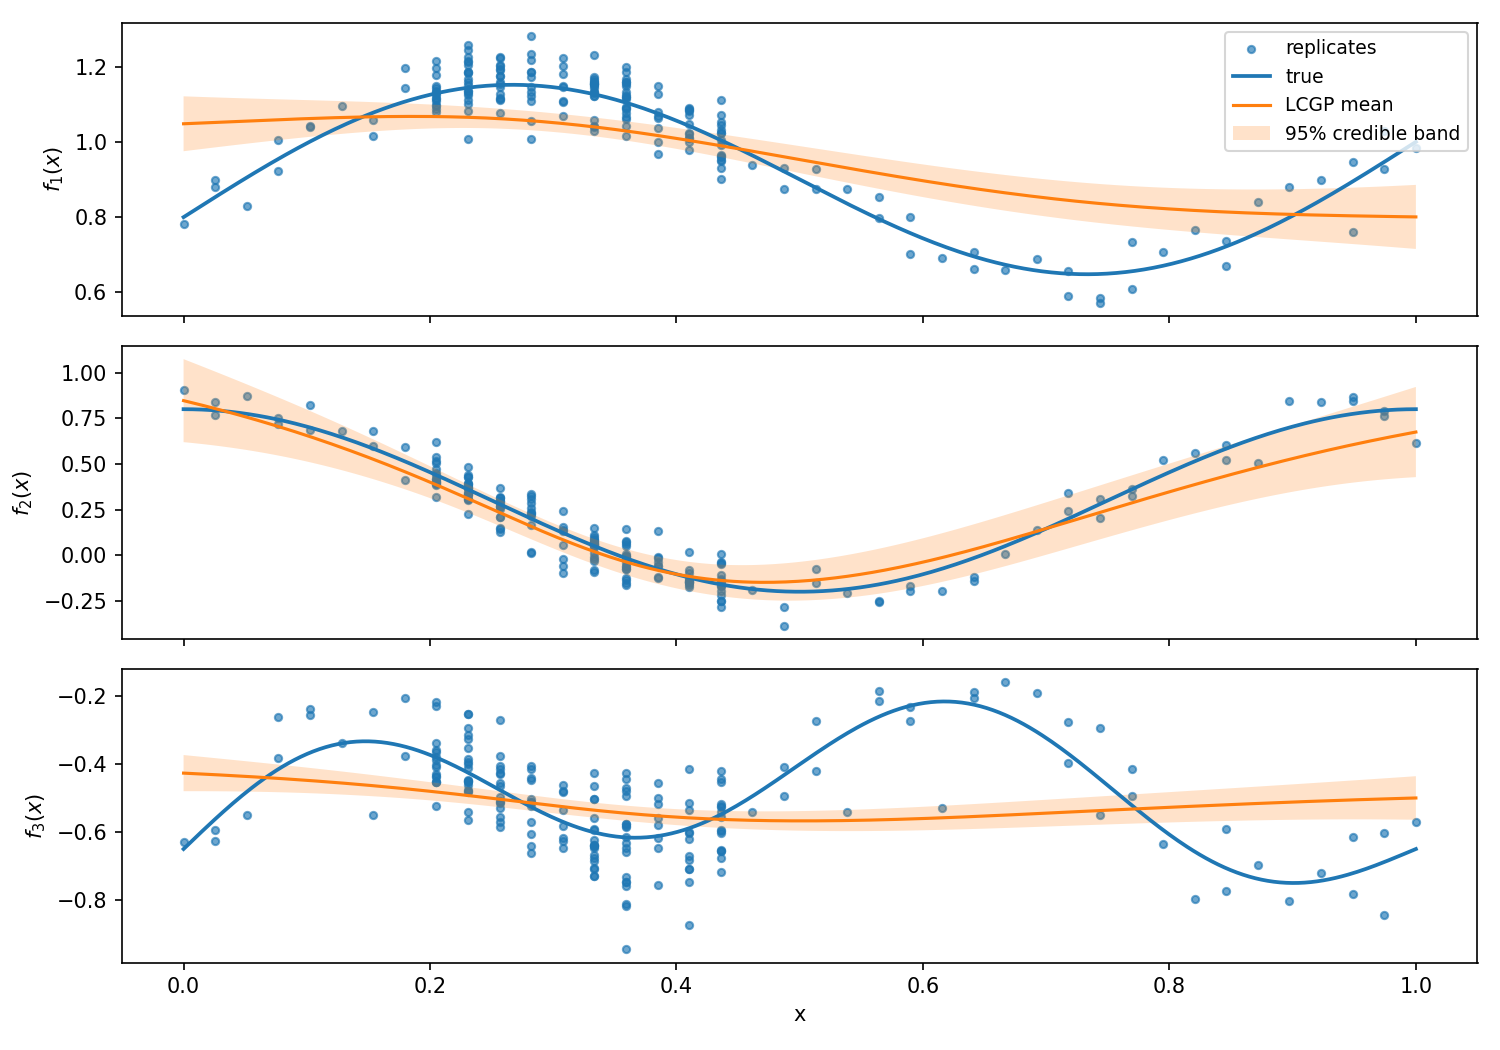
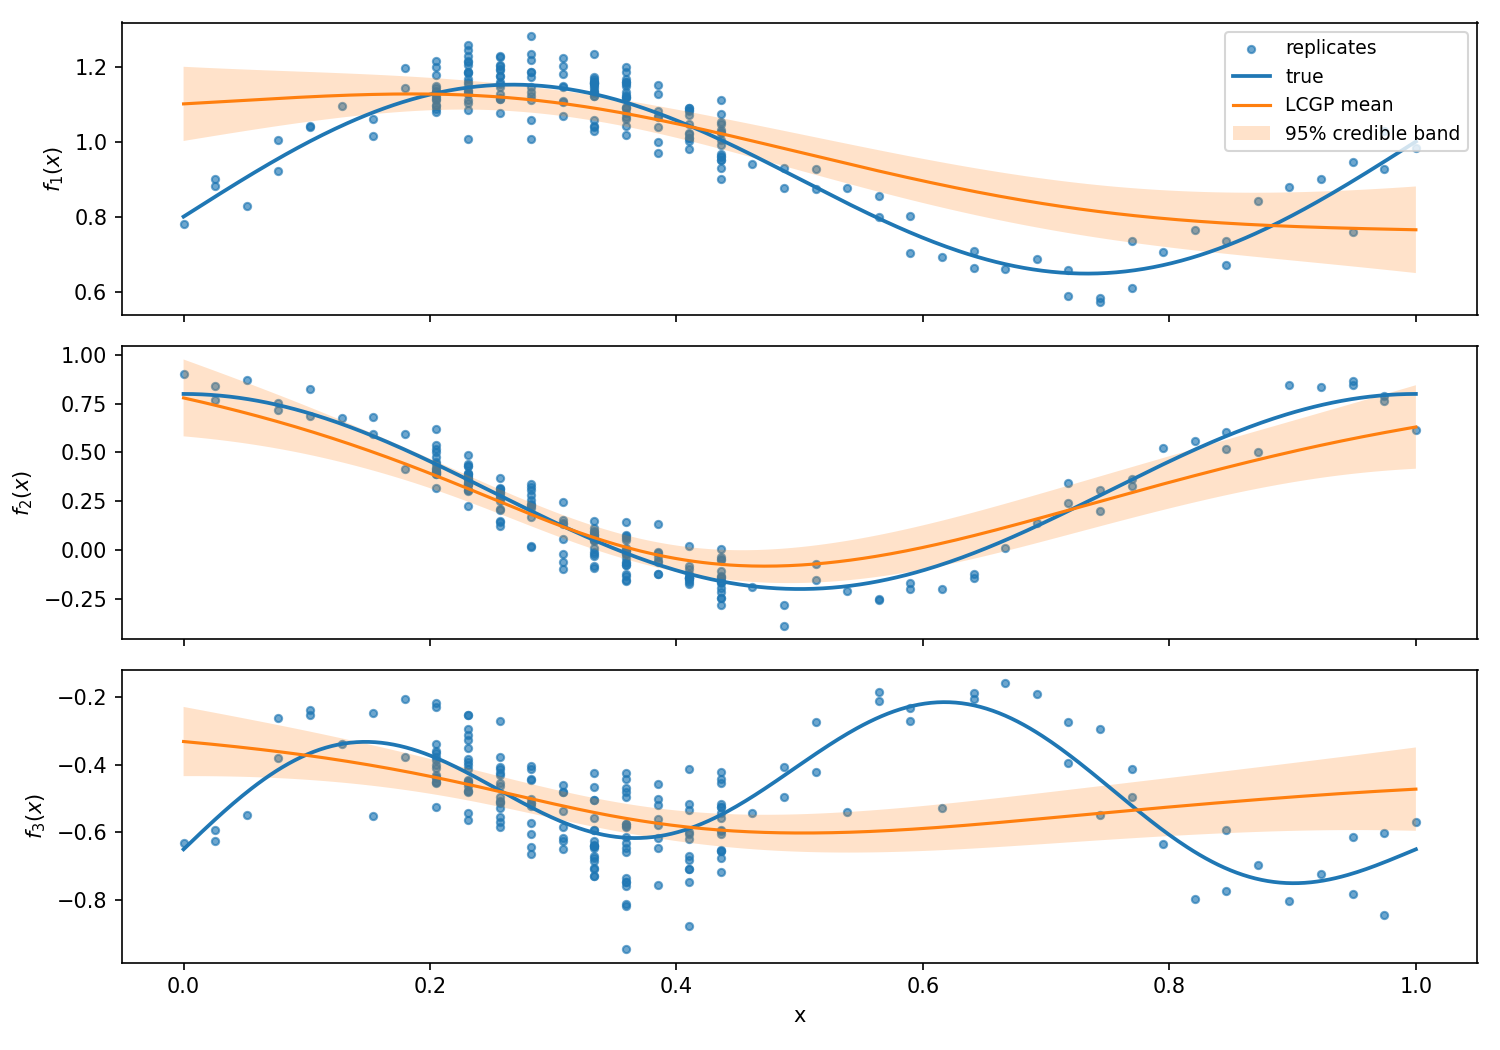
add markdown

diff --git a/lcgp/lcgp.py b/lcgp/lcgp.py
@@ -92,10 +92,16 @@ class LCGP(gpflow.Module):
             self.n = n_unique
             self.d = d
         '''
+        self._rep_initialized = False
+        if self.submethod == 'rep':
+            self.preprocess() 
+            self._rep_initialized = True
 
         # reset q if none is provided
         self.g, self.phi, self.diag_D, self.q = \
             self.init_phi(var_threshold=var_threshold)
+        
+        self.Tks = None
 
         if diag_error_structure is None:
             self.diag_error_structure = [1] * int(self.p)
@@ -152,10 +158,6 @@ class LCGP(gpflow.Module):
         if not self._rep_initialized:
             self.preprocess()  # builds x_unique, ybar, r, R, ybar_s, etc.
             # rebuild basis on ybar_s
-            self.g, self.phi, self.diag_D, self.q = self.init_phi(var_threshold=self.var_threshold)
-            self.CinvMs = tf.fill([self.q, self.n], tf.constant(float('nan'), dtype=tf.float64))
-            self.Ths    = tf.fill([self.q, self.n, self.n], tf.constant(float('nan'), dtype=tf.float64))
-            self.Tks    = None
             self._rep_initialized = True
 
     def preprocess(self, y_raw=None, x_raw=None):
@@ -280,8 +282,9 @@ class LCGP(gpflow.Module):
         Initialization of orthogonal basis, computed with singular value decomposition.
         Uses ybar_s if available (replication), else y.
         """
-        y_in = getattr(self, 'ybar_s', None)
-        if y_in is None:
+        if self.submethod == 'rep' and hasattr(self, 'ybar_s'):
+            y_in = self.ybar_s
+        else:
             y_in = self.y
 
         y = y_in  
@@ -416,8 +419,6 @@ class LCGP(gpflow.Module):
           + (n/2) log|Σ| - (p/2) log|R|
           + regularization
         '''
-        self._ensure_replication()
-
         lLmb, lLmb0, lsigma2s, lnugGPs = self.get_param()
         xk   = self.x_unique_s                      
         ybar = self.ybar_s                          
@@ -599,7 +600,6 @@ class LCGP(gpflow.Module):
         self.Ths = Th
 
     def _compute_aux_predictive_quantities_rep(self):
-        self._ensure_replication()
         lLmb, lLmb0, lsigma2s, lnugGPs = self.get_param()
         xk   = self.x_unique_s
         ybar = self.ybar_s                          
@@ -652,6 +652,7 @@ class LCGP(gpflow.Module):
         """
         Returns predictions using full posterior approach.
         """
+        print("in predict full")
         if tf.reduce_any(tf.math.is_nan(self.CinvMs)) or tf.reduce_any(tf.math.is_nan(self.Ths)):
             self.compute_aux_predictive_quantities()
 
@@ -712,7 +713,6 @@ class LCGP(gpflow.Module):
         return ypred, ypredvar, yconfvar
 
     def predict_rep(self, x0, return_fullcov=False):
-        self._ensure_replication()
         need_aux = (self.Tks is None) or tf.reduce_any(tf.math.is_nan(self.CinvMs))
         if need_aux:
             self._compute_aux_predictive_quantities_rep()
@@ -746,13 +746,32 @@ class LCGP(gpflow.Module):
         self.ghat = ghat
         self.gvar = gvar
 
-        predmean_std = tf.matmul(phi, ghat)              
-        confvar_std  = tf.matmul(tf.square(phi), gvar)   
-        predvar_std  = confvar_std + tf.exp(lsigma2s)[:, None]
+        # predmean_std = tf.matmul(phi, ghat)              
+        # confvar_std  = tf.matmul(tf.square(phi), gvar)   
+        # predvar_std  = confvar_std + tf.exp(lsigma2s)[:, None]
 
-        ypred    = predmean_std * self.ybar_std + self.ybar_mean
-        yconfvar = confvar_std * tf.square(self.ybar_std)
-        ypredvar = predvar_std * tf.square(self.ybar_std)
+        # ypred    = predmean_std * self.ybar_std + self.ybar_mean
+        # yconfvar = confvar_std * tf.square(self.ybar_std)
+        # ypredvar = predvar_std * tf.square(self.ybar_std)
+
+        # if return_fullcov:
+        #     return ypred, ypredvar, yconfvar, None
+        # return ypred, ypredvar, yconfvar
+
+        # Build psi = phi * sqrt(sigma^2) for proper scaling
+        # psi is (q, p) transposed, so we multiply phi (p, q) by sigma and transpose
+        sigma_sqrt = tf.sqrt(tf.exp(lsigma2s))  # (p,)
+        psi = tf.transpose(phi) * sigma_sqrt    # (q, p)
+        
+        # Predictions in standardized space
+        predmean_std = tf.matmul(psi, ghat, transpose_a=True)  # (p, n0)
+        confvar_std  = tf.matmul(tf.transpose(gvar), tf.square(psi))  # (n0, p)
+        predvar_std  = confvar_std + tf.exp(lsigma2s)  # (n0, p)
+
+        # Transform back using ybar statistics
+        ypred    = predmean_std * self.ybar_std + self.ybar_mean  # (p, n0)
+        yconfvar = tf.transpose(confvar_std) * tf.square(self.ybar_std)  # (p, n0)
+        ypredvar = tf.transpose(predvar_std) * tf.square(self.ybar_std)  # (p, n0)
 
         if return_fullcov:
             return ypred, ypredvar, yconfvar, None

diff --git a/illustration-examples/lcgp-rep-3d-illustration.py b/illustration-examples/lcgp-rep-3d-illustration.py
@@ -112,28 +112,28 @@ def make_rep_data_hotspots(n_unique=50,
 #     seed=2025
 # )
 
-# CASE 2: Skewed replication
-results_fig_path = './results_figure_rep_1d_skewed/'
-Path(results_fig_path).mkdir(parents=True, exist_ok=True)
-xtrain, ytrain, xtest, ytrue = make_rep_data_skewed(
-    n_unique=40,
-    heavy_region=(0.20, 0.45),
-    light_rep_choices=(1, 2),
-    heavy_rep_choices=(8, 12, 16, 20),
-    noise_std=(0.05, 0.08, 0.10),
-    seed=123
-)
-
-# # CASE 3: Hot-spots
-# results_fig_path = './results_figure_rep_1d_hotspots/'
+# # CASE 2: Skewed replication
+# results_fig_path = './results_figure_rep_1d_skewed/'
 # Path(results_fig_path).mkdir(parents=True, exist_ok=True)
-# xtrain, ytrain, xtest, ytrue = make_rep_data_hotspots(
-#     n_unique=50,
-#     hotspots=((0.15, 10, 15), (0.50, 18, 25), (0.80, 12, 20)),
-#     base_rep_choices=(1,),
+# xtrain, ytrain, xtest, ytrue = make_rep_data_skewed(
+#     n_unique=40,
+#     heavy_region=(0.20, 0.45),
+#     light_rep_choices=(1, 2),
+#     heavy_rep_choices=(8, 12, 16, 20),
 #     noise_std=(0.05, 0.08, 0.10),
-#     seed=7
+#     seed=123
 # )
+
+# CASE 3: Hot-spots
+results_fig_path = './results_figure_rep_1d_hotspots/'
+Path(results_fig_path).mkdir(parents=True, exist_ok=True)
+xtrain, ytrain, xtest, ytrue = make_rep_data_hotspots(
+    n_unique=50,
+    hotspots=((0.15, 10, 15), (0.50, 18, 25), (0.80, 12, 20)),
+    base_rep_choices=(1,),
+    noise_std=(0.05, 0.08, 0.10),
+    seed=7
+)
 
 # --------------------------
 # Build & train the model

diff --git a/illustration-examples/illustration-instruction.md b/illustration-examples/illustration-instruction.md
@@ -1,10 +1,67 @@
-# Instruction for using the illustration code
+# LCGP 3D Illustration with Replicated Data - Usage Instructions
 
-
-## `lcgp_3d_illustration_rep.py`
-
-Follow the code below:
-
+## Basic Usage
+To run the code:
 ```
-this is some code
+python ./illustration-examples/lcgp-rep-3d-illustration.py
+```
+
+## Dataset Selection
+The code provides three different replication patterns. Comment/uncomment the desired dataset:
+
+### CASE 1: Uniform-ish replication
+Data points have relatively uniform replication counts across the input space
+```python
+results_fig_path = './results_figure_rep_1d_uniform/'
+Path(results_fig_path).mkdir(parents=True, exist_ok=True)
+xtrain, ytrain, xtest, ytrue = make_rep_data(
+    n_unique=16,
+    rep_choices=(1,2,3,4,5),
+    noise_std=(0.05, 0.08, 0.10),
+    seed=2025
+)
+```
+
+### CASE 2: Skewed replication
+Data has heavy replication in specific regions and light replication elsewhere
+```python
+results_fig_path = './results_figure_rep_1d_skewed/'
+Path(results_fig_path).mkdir(parents=True, exist_ok=True)
+xtrain, ytrain, xtest, ytrue = make_rep_data_skewed(
+    n_unique=40,
+    heavy_region=(0.20, 0.45),
+    light_rep_choices=(1, 2),
+    heavy_rep_choices=(8, 12, 16, 20),
+    noise_std=(0.05, 0.08, 0.10),
+    seed=123
+)
+```
+
+### CASE 3: Hot-spots
+Data has specific hotspot locations with very high replication counts
+```python
+results_fig_path = './results_figure_rep_1d_hotspots/'
+Path(results_fig_path).mkdir(parents=True, exist_ok=True)
+xtrain, ytrain, xtest, ytrue = make_rep_data_hotspots(
+    n_unique=50,
+    hotspots=((0.15, 10, 15), (0.50, 18, 25), (0.80, 12, 20)),
+    base_rep_choices=(1,),
+    noise_std=(0.05, 0.08, 0.10),
+    seed=7
+)
+```
+
+## Model Configuration
+### SUBMETHOD Options:
+- **'rep'**: Uses the replicated data submethod 
+- **'full'**: Uses the full data submethod 
+```python
+SUBMETHOD = 'rep'   # Choose 'rep' or 'full'
+```
+
+### PLOT_MODE Options:
+- **'g'**: : Plots the latent Gaussian processes g₁(x), g₂(x), g₃(x) with training points
+- **'y'**: Plots the output functions f₁(x), f₂(x), f₃(x) with replicates and credible bands
+```python
+PLOT_MODE = 'g'     # Choose 'g' or 'y'
 ```
